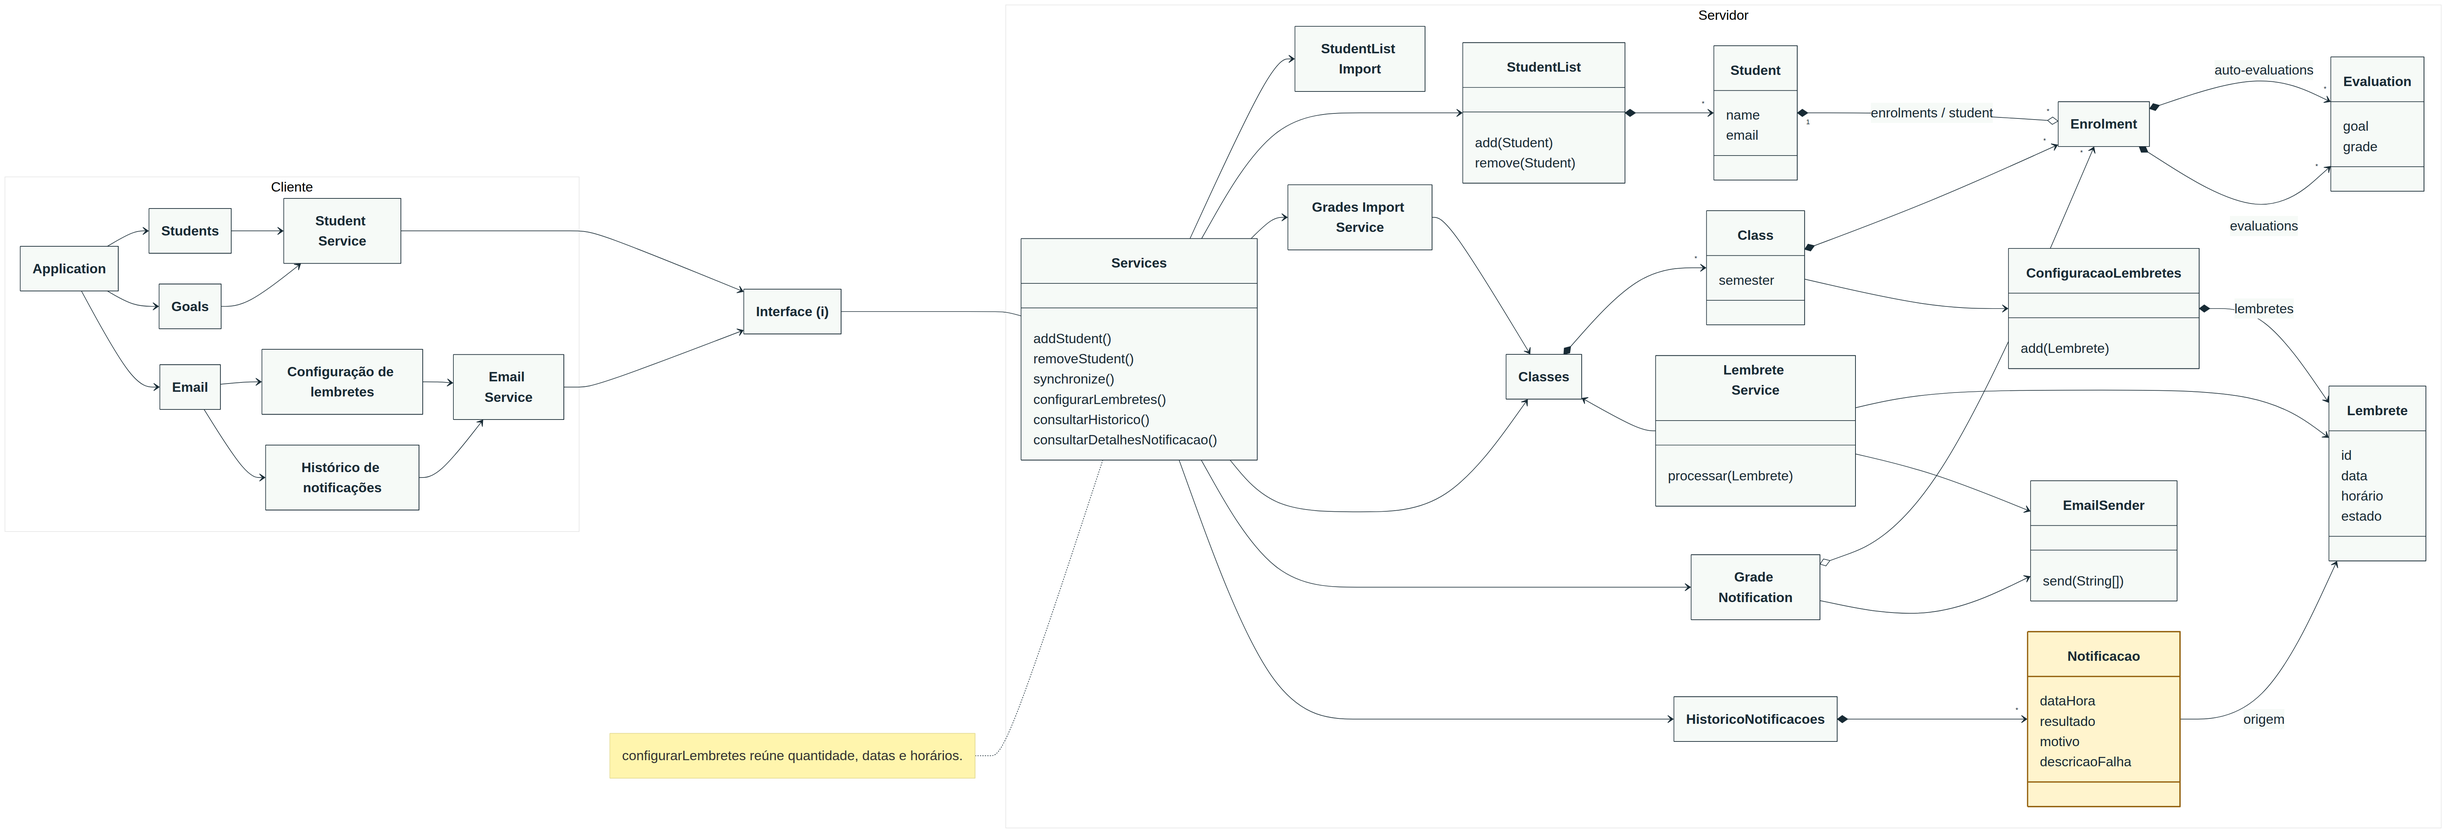
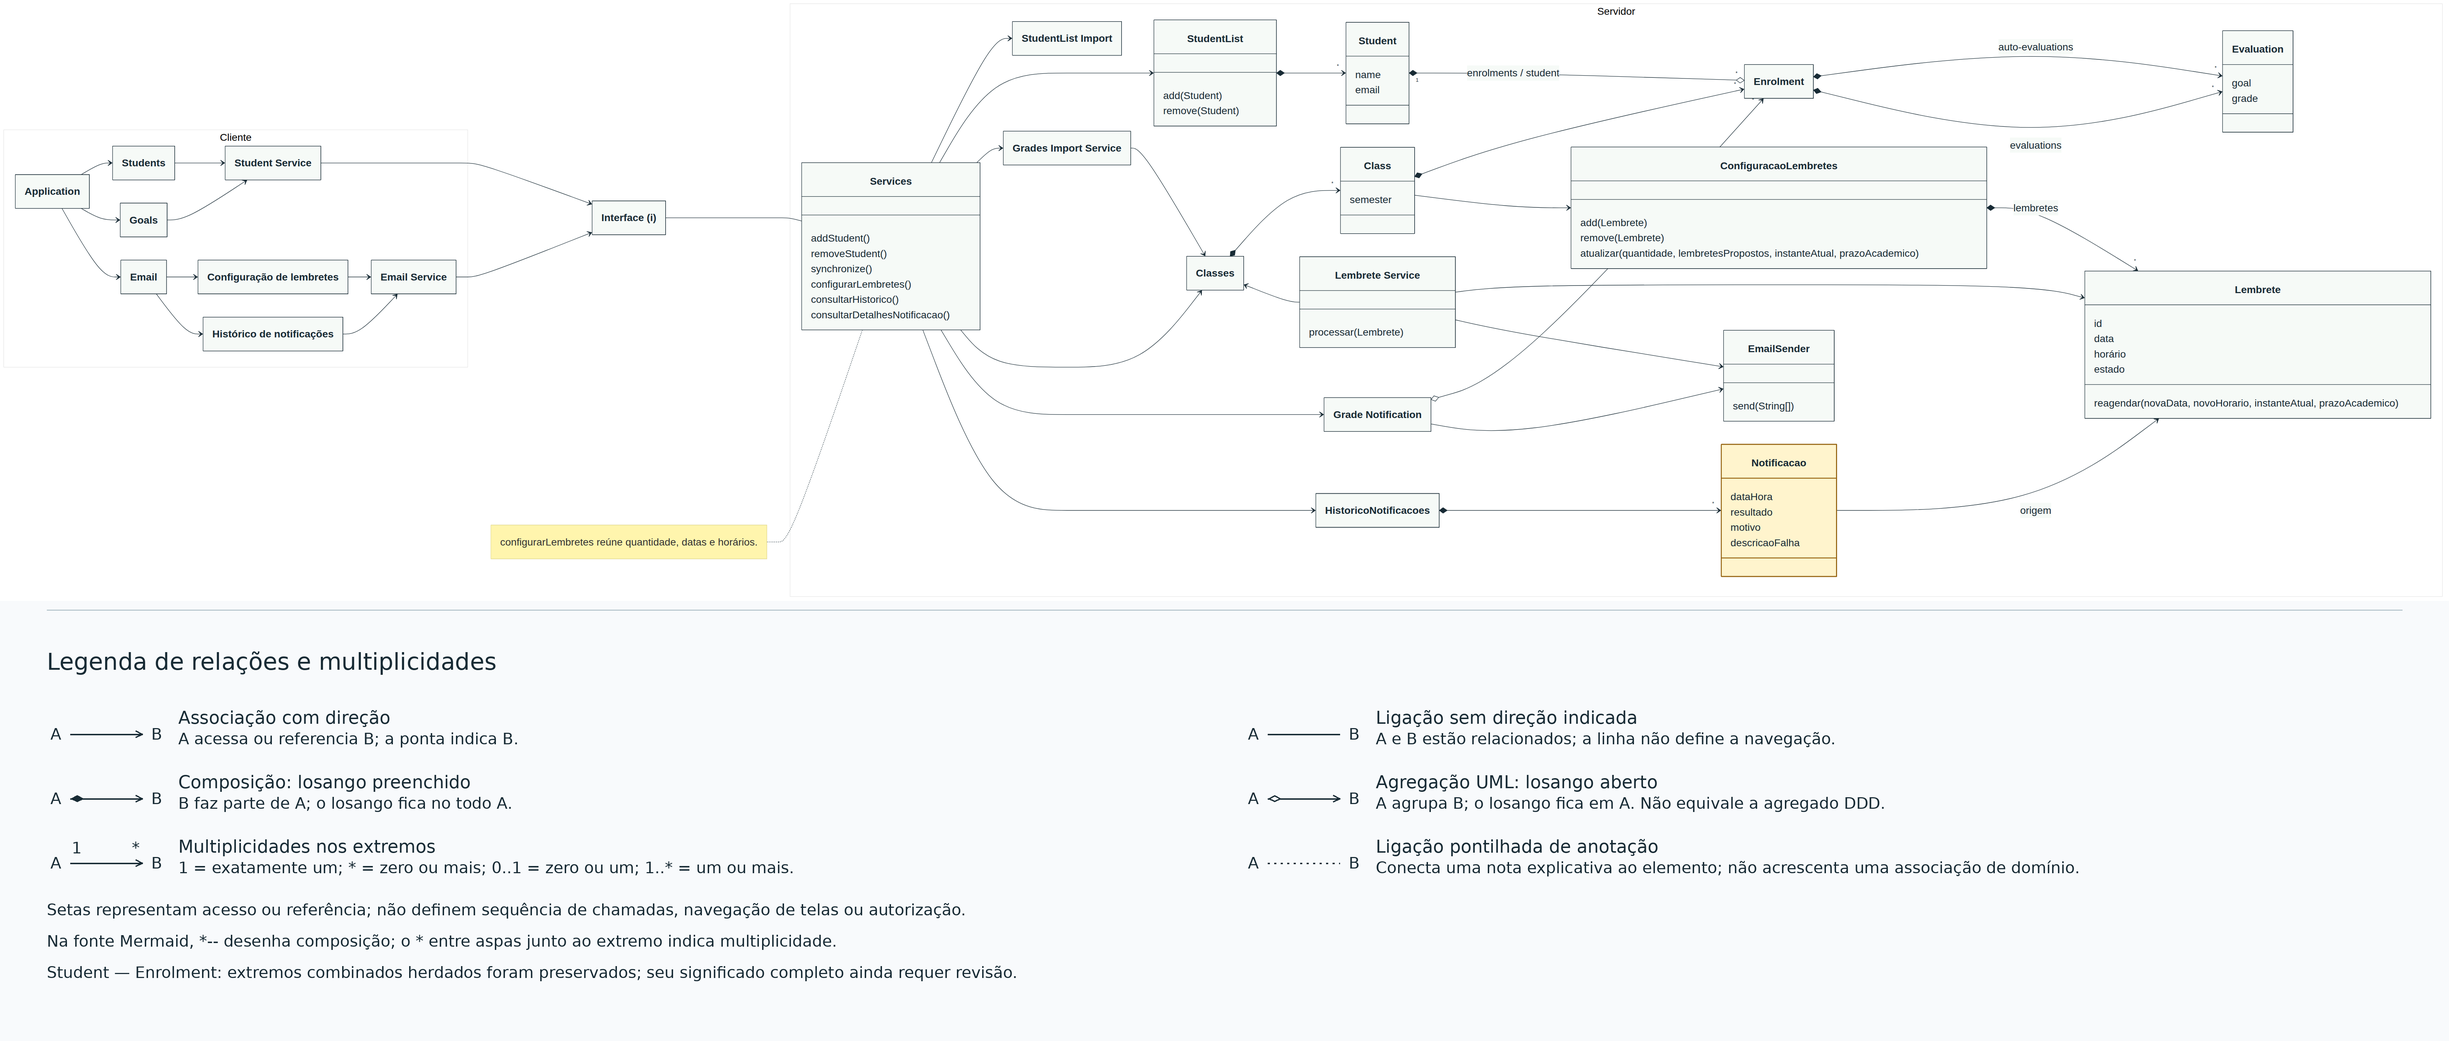
docs: detalha configuracao de lembretes e adiciona legenda

diff --git a/scripts/exportar-modelo-ddd.py b/scripts/exportar-modelo-ddd.py
@@ -1,0 +1,178 @@
+#!/usr/bin/env python3
+"""Exporta a fonte Mermaid e acrescenta uma legenda ao PNG, sem alterar o modelo."""
+
+import argparse
+import hashlib
+from pathlib import Path
+import shutil
+import subprocess
+import tempfile
+
+try:
+    from PIL import Image, ImageDraw, ImageFont, PngImagePlugin
+except ImportError:
+    raise SystemExit("Pillow não encontrado. Instale-o no ambiente de exportação: pip install Pillow")
+
+
+ROOT = Path(__file__).resolve().parents[1]
+ARCHITECTURE = ROOT / "docs" / "arquitetura"
+INK = "#182b35"
+LEGEND_ITEMS = (
+    ("arrow", "Associação com direção", "A acessa ou referencia B; a ponta indica B."),
+    ("line", "Ligação sem direção indicada", "A e B estão relacionados; a linha não define a navegação."),
+    ("composition", "Composição: losango preenchido", "B faz parte de A; o losango fica no todo A."),
+    ("aggregation", "Agregação UML: losango aberto", "A agrupa B; o losango fica em A. Não equivale a agregado DDD."),
+    ("multiplicity", "Multiplicidades nos extremos", "1 = exatamente um; * = zero ou mais; 0..1 = zero ou um; 1..* = um ou mais."),
+    ("note", "Ligação pontilhada de anotação", "Conecta uma nota explicativa ao elemento; não acrescenta uma associação de domínio."),
+)
+LEGEND_NOTES = (
+    "Setas representam acesso ou referência; não definem sequência de chamadas, navegação de telas ou autorização.",
+    "Na fonte Mermaid, *-- desenha composição; o * entre aspas junto ao extremo indica multiplicidade.",
+    "Student — Enrolment: extremos combinados herdados foram preservados; seu significado completo ainda requer revisão.",
+)
+
+
+def wrap_text(draw, text, font, width):
+    lines = []
+    for paragraph in text.splitlines():
+        current = ""
+        for word in paragraph.split():
+            candidate = f"{current} {word}".strip()
+            if current and draw.textlength(candidate, font=font) > width:
+                lines.append(current)
+                current = word
+            else:
+                current = candidate
+        lines.append(current)
+    return lines
+
+
+def draw_symbol(draw, kind, x, y, width, font, scale):
+    stroke = max(1, round(4 * scale))
+    radius = max(3, round(19 * scale))
+    start, end = x + 65 * scale, x + width - 65 * scale
+    if kind == "note":
+        for left in range(round(start), round(end), max(3, round(18 * scale))):
+            draw.line((left, y, min(left + 5 * scale, end), y), fill=INK, width=stroke)
+    else:
+        draw.line((start, y, end, y), fill=INK, width=stroke)
+    if kind in ("arrow", "composition", "aggregation", "multiplicity"):
+        draw.line((end - radius, y - radius / 2, end, y, end - radius, y + radius / 2), fill=INK, width=stroke)
+    if kind in ("composition", "aggregation"):
+        diamond = ((start, y), (start + radius, y - radius / 2), (start + 2 * radius, y), (start + radius, y + radius / 2))
+        draw.polygon(diamond, fill=INK if kind == "composition" else "#f8fafc", outline=INK, width=stroke)
+    draw.text((x + 10 * scale, y), "A", font=font, fill=INK, anchor="lm")
+    draw.text((x + width - 40 * scale, y), "B", font=font, fill=INK, anchor="lm")
+    if kind == "multiplicity":
+        draw.text((start + 18 * scale, y - 42 * scale), "1", font=font, fill=INK, anchor="mm")
+        draw.text((end - 18 * scale, y - 42 * scale), "*", font=font, fill=INK, anchor="mm")
+
+
+def add_legend(diagram, font_path):
+    width = diagram.width
+    scale = width / 6800
+    margin = round(130 * scale)
+    gap = round(110 * scale)
+    symbol_width = round(330 * scale)
+    column_width = (width - 2 * margin - gap) // 2
+    text_width = column_width - symbol_width - round(35 * scale)
+    font = ImageFont.truetype(font_path, max(12, round(44 * scale)))
+    title_font = ImageFont.truetype(font_path, max(18, round(65 * scale)))
+    label_font = ImageFont.truetype(font_path, max(14, round(49 * scale)))
+    line_height = round(font.size * 1.4)
+    probe = ImageDraw.Draw(Image.new("RGB", (1, 1)))
+    rows = []
+    for index in range(0, len(LEGEND_ITEMS), 2):
+        pair = []
+        for kind, title, description in LEGEND_ITEMS[index:index + 2]:
+            titles = wrap_text(probe, title, label_font, text_width)
+            descriptions = wrap_text(probe, description, font, text_width)
+            pair.append((kind, titles, descriptions))
+        row_height = max(len(titles) * line_height + len(lines) * line_height for _, titles, lines in pair)
+        rows.append((pair, row_height + round(55 * scale)))
+    notes = [wrap_text(probe, text, font, width - 2 * margin) for text in LEGEND_NOTES]
+    header_height = round(165 * scale)
+    notes_height = sum((len(lines) + 0.4) * line_height for lines in notes)
+    footer_height = round(margin + header_height + sum(height for _, height in rows) + notes_height + margin)
+    result = Image.new("RGB", (width, diagram.height + footer_height), "#f8fafc")
+    result.paste(diagram, (0, 0))
+    draw = ImageDraw.Draw(result)
+    top = diagram.height
+    draw.line((margin, top + round(25 * scale), width - margin, top + round(25 * scale)), fill="#b9c8cf", width=max(1, round(3 * scale)))
+    y = top + margin
+    draw.text((margin, y), "Legenda de relações e multiplicidades", font=title_font, fill=INK)
+    y += header_height
+    for pair, row_height in rows:
+        for column, (kind, titles, lines) in enumerate(pair):
+            x = margin + column * (column_width + gap)
+            draw_symbol(draw, kind, x, y + round(75 * scale), symbol_width, font, scale)
+            text_x = x + symbol_width + round(35 * scale)
+            text_y = y
+            for title in titles:
+                draw.text((text_x, text_y), title, font=label_font, fill=INK)
+                text_y += line_height
+            for line in lines:
+                draw.text((text_x, text_y), line, font=font, fill=INK)
+                text_y += line_height
+        y += row_height
+    for lines in notes:
+        for line in lines:
+            draw.text((margin, y), line, font=font, fill=INK)
+            y += line_height
+        y += round(0.4 * line_height)
+    return result
+
+
+def main():
+    parser = argparse.ArgumentParser(description=__doc__)
+    parser.add_argument("--input", type=Path, default=ARCHITECTURE / "modelo-ddd.mmd")
+    parser.add_argument("--output", type=Path, default=ARCHITECTURE / "ddd-notificacoes-incremental.png")
+    parser.add_argument("--mmdc", default="mmdc", help="Executável Mermaid CLI instalado no ambiente de exportação.")
+    parser.add_argument("--puppeteer-config", type=Path, help="JSON de configuração do navegador, repassado ao Mermaid CLI.")
+    parser.add_argument("--font", default="DejaVuSans.ttf", help="Nome ou caminho de uma fonte TrueType com suporte a português.")
+    parser.add_argument("--width", type=int, default=6800, help="Largura da exportação em pixels (mínimo: 2000).")
+    parser.add_argument("--svg", type=Path, help="Salva também o SVG do modelo sem o rodapé, para inspeção.")
+    args = parser.parse_args()
+    source = args.input.resolve()
+    output = args.output.resolve()
+    if not source.is_file():
+        parser.error(f"Fonte não encontrada: {source}")
+    if output.suffix.lower() != ".png" or output == source:
+        parser.error("O destino deve ser um PNG diferente da fonte Mermaid.")
+    if args.width < 2000:
+        parser.error("Use largura de pelo menos 2000 pixels para manter a legenda legível.")
+    if args.svg and (args.svg.resolve() in (source, output) or args.svg.suffix.lower() != ".svg"):
+        parser.error("O destino SVG deve ser diferente da fonte e do PNG e ter extensão .svg.")
+    executable = shutil.which(args.mmdc)
+    if executable is None:
+        parser.error("Mermaid CLI não encontrado. Instale-o ou informe seu caminho com --mmdc.")
+    if args.puppeteer_config and not args.puppeteer_config.is_file():
+        parser.error("Arquivo de configuração do navegador não encontrado.")
+    try:
+        ImageFont.truetype(args.font, 44)
+    except OSError:
+        parser.error("Fonte não encontrada. Informe um arquivo TrueType com --font.")
+    command = [executable, "-i", str(source), "-b", "white"]
+    if args.puppeteer_config:
+        command.extend(["-p", str(args.puppeteer_config.resolve())])
+    try:
+        with tempfile.TemporaryDirectory(prefix="modelo-ddd-") as temporary:
+            raw_png = Path(temporary) / "modelo.png"
+            subprocess.run(command + ["-o", str(raw_png), "--size", str(args.width)], check=True)
+            if args.svg:
+                args.svg.parent.mkdir(parents=True, exist_ok=True)
+                subprocess.run(command + ["-o", str(args.svg.resolve())], check=True)
+            with Image.open(raw_png) as image:
+                result = add_legend(image.convert("RGB"), args.font)
+            metadata = PngImagePlugin.PngInfo()
+            metadata.add_text("MermaidSource", source.name)
+            metadata.add_text("MermaidSourceSHA256", hashlib.sha256(source.read_bytes()).hexdigest())
+            output.parent.mkdir(parents=True, exist_ok=True)
+            result.save(output, pnginfo=metadata)
+            print(f"PNG com legenda: {output} ({result.width} x {result.height})")
+    except (OSError, subprocess.CalledProcessError) as error:
+        parser.exit(1, f"Falha na exportação: {error}\n")
+
+
+if __name__ == "__main__":
+    main()

diff --git a/docs/arquitetura/GUIA-MERMAID.md b/docs/arquitetura/GUIA-MERMAID.md
@@ -11,6 +11,7 @@ apresentada pelo professor. Cada integrante pode propor os conceitos necessário
 | [modelo-ddd.mmd](modelo-ddd.mmd) | Fonte oficial do diagrama. Contém somente código Mermaid, incluindo configuração e comentários. |
 | [GUIA-MERMAID.md](GUIA-MERMAID.md) | Este guia: instruções e exemplos isolados. |
 | [ddd-notificacoes-incremental.png](ddd-notificacoes-incremental.png) | Imagem exportada para visualização rápida. |
+| [exportar-modelo-ddd.py](../../scripts/exportar-modelo-ddd.py) | Exporta o Mermaid e acrescenta a legenda abaixo do diagrama no PNG. |
 
 Edite o `.mmd` para modificar o modelo. O PNG precisa ser atualizado depois das
 mudanças aprovadas; editar a imagem não modifica o código. O arquivo `.mmd` pode
@@ -109,18 +110,32 @@ ExemploServico --> ExemploConfiguracao : acesso
 No modelo principal, declare os elementos primeiro e acrescente a relação na
 seção de relações correspondente. Use seus identificadores, não seus nomes visíveis.
 
+### Legenda do modelo
+
+![Modelo DDD com legenda de relações e multiplicidades](ddd-notificacoes-incremental.png)
+
+A legenda também faz parte do próprio PNG, para acompanhar a imagem compartilhada.
+Ela explica a notação; não acrescenta classes ou relações ao modelo.
+
 | Sintaxe | Significado |
 | --- | --- |
 | `A --> B` | Associação com navegação de A para B: A acessa ou referencia B. |
+| `B <-- A` | O mesmo acesso de A para B; a escrita invertida pode ajudar a organizar o layout. |
 | `A -- B` | Ligação sem uma direção de navegação indicada. |
 | `A *--> B` | Composição com navegação: B faz parte de A; o losango preenchido fica em A. |
 | `A o--> B` | Agregação com navegação: A agrupa B; o losango vazio fica em A. |
 | `A --> B : origem` | Associação com um rótulo que explica seu significado. |
 | `A "1" --> "*" B` | Cada A associa-se a zero ou mais B; cada B associa-se a um A. |
+| Ligação pontilhada de anotação | Conecta uma nota explicativa ao elemento; não acrescenta uma associação de domínio. |
 
 As multiplicidades aparecem entre aspas junto aos extremos: `"1"` significa um,
 `"0..1"` significa zero ou um, `"*"` significa zero ou mais e `"1..*"` significa
 um ou mais. Escolha-as a partir das regras da feature, não da posição das caixas.
+
+O losango fica no extremo do todo ou agrupador. O asterisco tem dois usos distintos:
+em `*--` é o comando Mermaid para desenhar composição; em `"*"` junto ao extremo
+é uma multiplicidade. Uma seta representa acesso ou referência, sem definir
+sequência de chamadas, navegação de telas ou autorização.
 
 O modelo original também contém extremos combinados, como a relação entre
 `Student` e `Enrolment`. Preserve sua notação enquanto a equipe não revisar seu
@@ -137,6 +152,10 @@ O Mermaid calcula as posições. No cabeçalho existente:
 - Aumente `nodeSpacing` para ampliar o espaço entre elementos.
 - Aumente `rankSpacing` para ampliar o espaço entre camadas do desenho.
 - Ajuste `fontSize` com cuidado para manter nomes e operações legíveis.
+
+O cabeçalho usa `markdownAutoWrap: false` para manter as operações em uma linha
+e evitar sobreposição entre métodos quando a assinatura é longa. Preserve essa
+opção ao exportar ou colar a fonte completa no Mermaid Live.
 
 Faça ajustes pequenos e observe o resultado. Preserve a indentação do YAML e os
 nomes das configurações. Para resolver falta de espaço, ajuste a apresentação;
@@ -162,6 +181,49 @@ conceitual; os testes da futura implementação precisam comprovar suas regras.
 Quando outra equipe ainda não disponibiliza uma dependência, combine seu contrato
 e os dados necessários para um mock/stub. Não trate esse dado simulado como uma
 funcionalidade já implementada no projeto.
+
+### Atualização completa da configuração de lembretes
+
+`Services.configurarLembretes()` continua sendo a entrada conceitual da aplicação.
+Em `ConfiguracaoLembretes`, a operação
+`atualizar(quantidade, lembretesPropostos, instanteAtual, prazoAcademico)` representa a validação
+do conjunto final pretendido antes de aplicar qualquer alteração.
+
+`lembretesPropostos` são os dados de edição, não uma nova entidade nem lembretes que já
+foram alterados. A quantidade informada deve corresponder ao total final,
+incluindo os enviados que serão preservados; ela não é um novo atributo permanente.
+
+`instanteAtual` é a data e o horário que o serviço obtém consultando o relógio do
+servidor uma vez por atualização. O professor não informa esse argumento, e a
+configuração não o guarda como atributo. Ele é utilizado apenas para comparar
+os agendamentos novos ou alterados com o momento da operação. `reagendar` recebe
+o mesmo contexto temporal; a operação recebe o valor, não uma função de relógio.
+
+Novos lembretes precisam de data e horário. Agendamentos novos ou alterados não
+podem estar no passado nem após o prazo recebido. Os enviados devem continuar
+presentes e inalterados; suas datas antigas não são rejeitadas como se fossem
+novos agendamentos. Alterações em lembretes existentes preservam seus identificadores.
+
+A operação valida o conjunto antes de aplicar as mudanças, preservando as regras
+de `add`, `remove` e `reagendar`. Uma rejeição mantém toda a configuração anterior
+intacta; não modifica outras turmas nem os registros históricos. Essa regra ainda
+precisará ser implementada e garantida na gravação em armazenamento.
+
+Exemplos para percorrer conceitualmente:
+
+| Situação proposta | Resultado esperado no domínio |
+| --- | --- |
+| Duas datas válidas e quantidade dois | Aceitar a configuração completa. |
+| Quantidade três com apenas duas datas preenchidas | Rejeitar; preservar a configuração anterior. |
+| Um novo agendamento passado ou após o prazo | Rejeitar; não aplicar parcialmente as outras mudanças. |
+| Reduzir três lembretes para dois, mantendo o enviado | Aceitar a remoção do não enviado e preservar os demais. |
+| Alterar ou excluir um enviado | Rejeitar; preservar o conjunto anterior. |
+| Reagendar um não enviado dentro dos limites | Preservar seu id e o isolamento entre turmas. |
+
+Esses exemplos cobrem regras de domínio presentes em cenários GUI. Não comprovam
+autenticação, navegação, mensagens, persistência ou testes executáveis aprovados.
+O contrato concreto do relógio e a origem de `prazoAcademico`, os estados ainda indefinidos, as notas
+pendentes, o processamento automático e a concorrência continuam pendentes.
 
 ## 8. Trabalhar em equipe com branches e PRs
 
@@ -195,15 +257,71 @@ e sua visualização, sem mudanças incidentais na aplicação.
 
 Quando houver alterações concorrentes, compare as mudanças nas classes e nas
 relações durante a resolução do conflito. Depois de resolvê-lo, abra o código final
-novamente no Mermaid Live e exporte uma imagem que corresponda a ele.
+novamente no Mermaid Live e gere uma imagem com legenda pelo procedimento abaixo.
 
 ## 9. Atualizar a imagem e revisar o resultado
 
-1. Cole a versão final do `.mmd` no Mermaid Live e confira a renderização.
-2. Abra **Actions**, escolha **PNG** e exporte a imagem.
-3. Salve-a como `docs/arquitetura/ddd-notificacoes-incremental.png` no seu clone.
-4. Confira se as novas caixas estão legíveis e se as relações esperadas aparecem.
-5. Inclua a fonte e a imagem correspondente no mesmo PR.
+1. Confira a fonte completa no Mermaid Live, incluindo o cabeçalho de configuração.
+2. Execute o exportador para gerar o PNG com a legenda incorporada.
+3. Abra o PNG e confira caixas, operações, relações e legibilidade do rodapé.
+4. Inclua a fonte e a imagem correspondente na revisão. Se editar o guia ou o
+   exportador, inclua esses arquivos também.
+
+### Preparar as ferramentas de exportação
+
+O script usa Python 3 com Pillow e Mermaid CLI 12.0.0 com seu navegador Puppeteer.
+São ferramentas de documentação; não alteram as dependências do cliente ou servidor.
+Não é necessário ter Codex. O exemplo abaixo é para Linux/macOS, executado na raiz
+do repositório, e mantém o ambiente Python em uma pasta irmã:
+
+```sh
+python3 -m venv ../ddd-export-python
+../ddd-export-python/bin/python -m pip install Pillow
+npx --yes --package @mermaid-js/mermaid-cli@12.0.0 -- \
+  ../ddd-export-python/bin/python scripts/exportar-modelo-ddd.py
+```
+
+O primeiro uso pode baixar as ferramentas e o navegador. Em outros sistemas,
+use o executável Python do ambiente criado. A fonte padrão da legenda é
+`DejaVuSans.ttf`; se não estiver disponível, informe uma fonte TrueType com
+suporte a português usando `--font /caminho/fonte.ttf`.
+
+### Usar ferramentas já instaladas
+
+Se `mmdc` e Pillow já estão disponíveis no ambiente:
+
+```sh
+python3 scripts/exportar-modelo-ddd.py
+```
+
+Para informar o executável Mermaid e uma configuração do navegador:
+
+```sh
+python3 scripts/exportar-modelo-ddd.py \
+  --mmdc /caminho/para/mmdc \
+  --puppeteer-config /caminho/para/puppeteer.json
+```
+
+O JSON do Puppeteer pode indicar um navegador instalado, por exemplo
+`{"executablePath": "/caminho/para/chrome"}`. Use os caminhos da sua máquina.
+O exportador não depende de caminhos temporários específicos.
+
+Por padrão, ele lê `docs/arquitetura/modelo-ddd.mmd` e grava
+`docs/arquitetura/ddd-notificacoes-incremental.png`, com largura de 6800 pixels.
+Também aceita `--input`, `--output`, `--width` e `--svg`; este último salva um SVG
+adicional do modelo, sem o rodapé, para inspeção. `--help` lista as opções.
+
+O rodapé é desenhado pelo exportador, sem modificar os pixels do diagrama
+renderizado. O PNG contém o SHA-256 da fonte em seus metadados para permitir
+conferir qual versão foi exportada. Para reproduzir a aparência, mantenha a
+mesma versão do Mermaid, navegador e fontes.
+
+### Exportação direta no Mermaid Live
+
+Em **Actions → PNG**, o Mermaid Live exporta o diagrama da fonte `.mmd`, sem a
+legenda adicional. Essa exportação é útil para prévias. Para atualizar o PNG
+versionado com o rodapé, use o script. A legenda não é parte do domínio e não
+deve ser simulada acrescentando classes ou associações artificiais ao `.mmd`.
 
 O código é a fonte oficial. A exportação pode variar visualmente entre versões
 do Mermaid; compare os conceitos e as relações, além da aparência.
